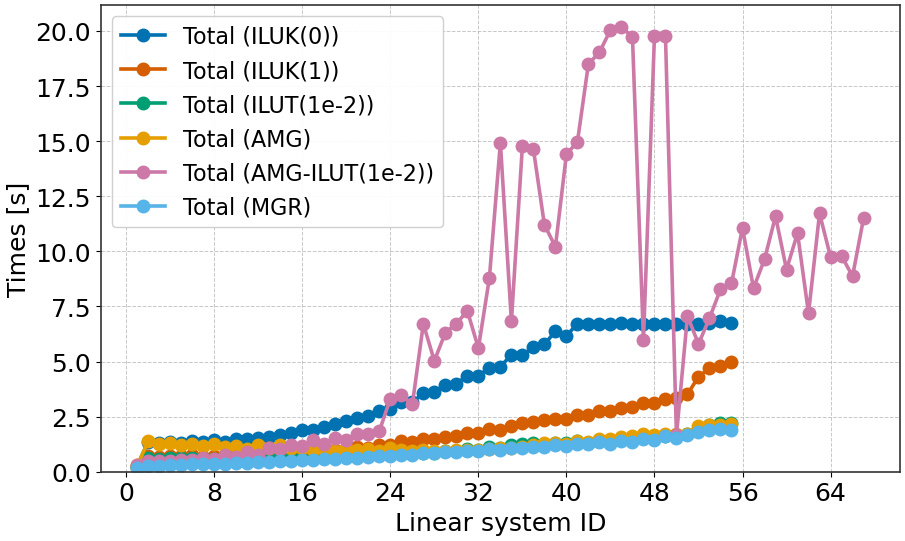
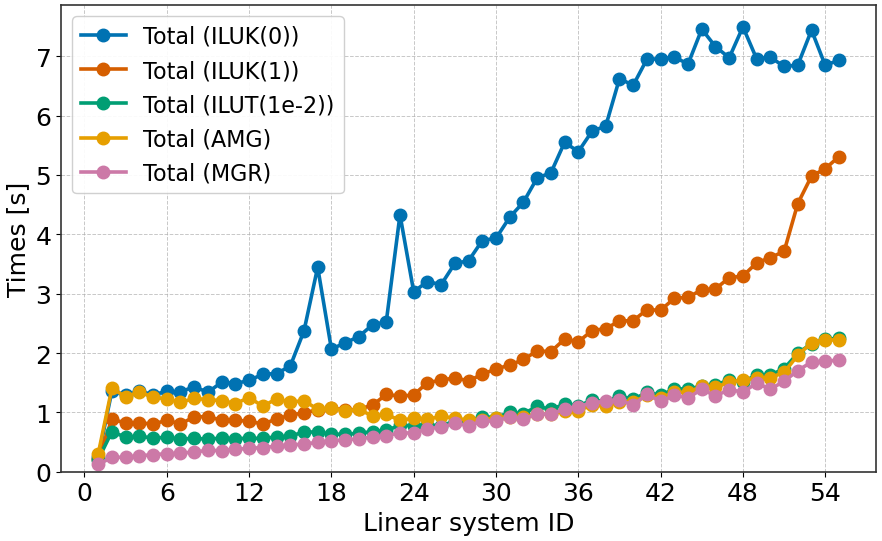
Regression fixes

diff --git a/src/internal/precon.c b/src/internal/precon.c
@@ -312,7 +312,10 @@ hypredrv_PreconCreate(precon_t precon_method, precon_args *args, IntArray *dofma
    precon->main     = NULL;
    precon->method   = precon_method;
    precon->is_setup = 0;
-   precon->stats    = NULL;
+   /* Methods that need no operator inputs are always ready for setup; AMS/ADS
+    * are only ready when every required operator was supplied (checked below). */
+   precon->operators_ok = hypredrv_PreconOperatorsComplete(precon_method, ops);
+   precon->stats        = NULL;
 
    switch (precon_method)
    {
@@ -373,6 +376,83 @@ hypredrv_PreconCreate(precon_t precon_method, precon_args *args, IntArray *dofma
 }
 
 /*-----------------------------------------------------------------------------
+ * hypredrv_PreconMethodRequiresOperators
+ *-----------------------------------------------------------------------------*/
+
+int
+hypredrv_PreconMethodRequiresOperators(precon_t precon_method)
+{
+   return (precon_method == PRECON_AMS || precon_method == PRECON_ADS);
+}
+
+/*-----------------------------------------------------------------------------
+ * hypredrv_PreconOperatorsComplete
+ *
+ * AMS needs a discrete gradient and the three coordinate vectors; ADS needs all
+ * of that plus a discrete curl. These mirror the inputs hypredrv_AMSSetOperators
+ * / hypredrv_ADSSetOperators forward to HYPRE_*SetDiscreteGradient /
+ * HYPRE_*SetDiscreteCurl / HYPRE_*SetCoordinateVectors; if any is missing the
+ * hypre setup routine dereferences NULL.
+ *-----------------------------------------------------------------------------*/
+
+int
+hypredrv_PreconOperatorsComplete(precon_t precon_method, const PreconOperators *ops)
+{
+   if (!hypredrv_PreconMethodRequiresOperators(precon_method))
+   {
+      return 1;
+   }
+
+   if (!ops)
+   {
+      return 0;
+   }
+
+   int have_coords = (ops->coord[0] && ops->coord[1] && ops->coord[2]);
+
+   if (precon_method == PRECON_AMS)
+   {
+      return (ops->G && have_coords) ? 1 : 0;
+   }
+
+   /* PRECON_ADS */
+   return (ops->G && ops->C && have_coords) ? 1 : 0;
+}
+
+/*-----------------------------------------------------------------------------
+ * hypredrv_PreconSetupOperatorGuard
+ *-----------------------------------------------------------------------------*/
+
+int
+hypredrv_PreconSetupOperatorGuard(HYPRE_Precon precon)
+{
+   if (!precon || precon->operators_ok)
+   {
+      return 0;
+   }
+
+   if (!hypredrv_PreconMethodRequiresOperators(precon->method))
+   {
+      return 0;
+   }
+
+   hypredrv_ErrorCodeSet(ERROR_MISSING_PRECON);
+   if (precon->method == PRECON_AMS)
+   {
+      hypredrv_ErrorMsgAdd("AMS setup requires a discrete gradient matrix and "
+                           "coordinate vectors, but they were not provided");
+   }
+   else
+   {
+      hypredrv_ErrorMsgAdd("ADS setup requires a discrete gradient matrix, a discrete "
+                           "curl matrix, and coordinate vectors, but they were not "
+                           "provided");
+   }
+
+   return 1;
+}
+
+/*-----------------------------------------------------------------------------
  * hypredrv_PreconSetup
  *-----------------------------------------------------------------------------*/
 
@@ -399,6 +479,13 @@ hypredrv_PreconSetup(precon_t precon_method, HYPRE_Precon precon, HYPRE_IJMatrix
    {
       hypredrv_ErrorCodeSet(ERROR_INVALID_VAL);
       hypredrv_ErrorMsgAdd("Preconditioner setup requested with null matrix");
+      return;
+   }
+
+   /* Abort cleanly (instead of letting hypre dereference NULL) when an AMS/ADS
+    * preconditioner is set up without its required operator inputs. */
+   if (hypredrv_PreconSetupOperatorGuard(precon))
+   {
       return;
    }
 

diff --git a/include/internal/precon.h b/include/internal/precon.h
@@ -86,6 +86,11 @@ typedef struct hypre_Precon_struct
    HYPRE_Solver         main;
    precon_t             method;
    HYPRE_Int            is_setup;
+   /* For AMS/ADS: 1 when every operator input the method requires (discrete
+    * gradient / discrete curl / coordinate vectors) was supplied at create
+    * time. Always 1 for methods that need no operator inputs. Setup must abort
+    * with a clean error when this is 0, otherwise hypre dereferences NULL. */
+   HYPRE_Int            operators_ok;
    struct Stats_struct *stats;
 } hypre_Precon;
 
@@ -106,6 +111,21 @@ void           hypredrv_PreconSetArgsFromYAML(precon_args *,
                                               YAMLnode *); /* TODO: change to PreconSetArgs */
 void           hypredrv_PreconCreate(precon_t, precon_args *, IntArray *, HYPRE_IJVector,
                                      HYPRE_Precon *, const Stats *, int, const PreconOperators *);
+/* Returns 1 if the method needs externally supplied operator inputs
+ * (AMS: discrete gradient + coordinates; ADS: + discrete curl), else 0. */
+int            hypredrv_PreconMethodRequiresOperators(precon_t);
+
+/* Returns 1 if every operator input required by the method is present in ops
+ * (ops may be NULL, which counts as "all missing" for AMS/ADS). Methods that
+ * need no operators always return 1. */
+int            hypredrv_PreconOperatorsComplete(precon_t, const PreconOperators *);
+
+/* Setup-time guard shared by the standalone and Krylov-embedded setup paths.
+ * Returns nonzero (after raising an ERROR_MISSING_PRECON HYPREDRV error) when
+ * the preconditioner must not be set up because its required operators are
+ * missing; returns 0 when setup may proceed. */
+int            hypredrv_PreconSetupOperatorGuard(HYPRE_Precon);
+
 void           hypredrv_PreconSetup(precon_t, HYPRE_Precon, HYPRE_IJMatrix);
 void hypredrv_PreconApply(precon_t, HYPRE_Precon, HYPRE_IJMatrix, HYPRE_IJVector,
                           HYPRE_IJVector);

diff --git a/scripts/analyze_statistics.py b/scripts/analyze_statistics.py
@@ -542,7 +542,7 @@ def plot_times(df, cumulative, xtype, xlabel, time_unit, use_title=False, savefi
         prefix = 'Cumulative ' if cumulative else ''
         plt.title(f'{prefix}Linear solver times vs {xlabel}', fontsize=tfs, fontweight='bold')
     ax = plt.gca()
-    _setup_axes(ax, xlabel, f'Times {time_unit}', log_x=log_x, log_y=log_y, set_integer_x=True, set_y_bottom=0.0, safe_integer_locator=False)
+    _setup_axes(ax, xlabel, f'Time {time_unit}', log_x=log_x, log_y=log_y, set_integer_x=True, set_y_bottom=0.0, safe_integer_locator=False)
     plt.grid(True)
     plt.tight_layout()
     save_and_show_plot(f"times_{agg_str}{savefig}")
@@ -584,7 +584,7 @@ def plot_time_metric(df, cumulative, xtype, xlabel, time_unit, metric, use_title
         prefix = 'Cumulative ' if cumulative else ''
         plt.title(f"{prefix}{metric.capitalize()} time vs {xlabel}", fontsize=tfs, fontweight='bold')
     ax = plt.gca()
-    _setup_axes(ax, xlabel, f'Times {time_unit}', log_x=log_x, log_y=log_y, set_integer_x=True, set_y_bottom=0.0, safe_integer_locator=False)
+    _setup_axes(ax, xlabel, f'Time {time_unit}', log_x=log_x, log_y=log_y, set_integer_x=True, set_y_bottom=0.0, safe_integer_locator=False)
     plt.grid(True)
     plt.tight_layout()
     save_and_show_plot(f"{metric}_{agg_str}{savefig}")
@@ -612,7 +612,7 @@ def _plot_iters_with_time_metric(df, cumulative, xtype, xlabel, time_unit, time_
 
     # Time axis (left): setup/solve/total.
     ax1.set_xlabel(xlabel, fontsize=alfs)
-    ax1.set_ylabel(f'Times {time_unit}', fontsize=alfs)
+    ax1.set_ylabel(f'Time {time_unit}', fontsize=alfs)
     if log_x:
         ax1.set_xscale('log')
     if log_y:
@@ -828,7 +828,7 @@ def plot_bar_time_metric(df, metric, time_unit, labels, use_title=False, savefig
     if metric == 'iters':
         plt.ylabel("Iterations", fontsize=alfs)
     else:
-        plt.ylabel(f"Times {time_unit}", fontsize=alfs)
+        plt.ylabel(f"Time {time_unit}", fontsize=alfs)
     plt.xlabel(xlabel if xlabel else "Solver", fontsize=alfs)
 
     if title:

diff --git a/src/internal/solver.c b/src/internal/solver.c
@@ -175,6 +175,14 @@ PreconSetupDispatch(HYPRE_Solver solver, HYPRE_ParCSRMatrix A, HYPRE_ParVector b
       return 0;
    }
 
+   /* Abort cleanly (instead of letting hypre dereference NULL) when an AMS/ADS
+    * preconditioner is set up without its required operator inputs. This is the
+    * Krylov-embedded counterpart of the guard in hypredrv_PreconSetup. */
+   if (hypredrv_PreconSetupOperatorGuard(precon))
+   {
+      return 1;
+   }
+
    if (precon->stats)
    {
       hypredrv_StatsAnnotate(precon->stats, HYPREDRV_ANNOTATE_BEGIN, "prec");

diff --git a/examples/src/C_elasticity/postprocess.py b/examples/src/C_elasticity/postprocess.py
@@ -116,10 +116,14 @@ def render(args: argparse.Namespace) -> None:
     try:
         pl.enable_anti_aliasing("ssaa")
     except Exception:
+        # Anti-aliasing is a purely cosmetic enhancement; some VTK/OpenGL backends
+        # (notably headless/off-screen) do not support it, so just render without it.
         pass
     try:
         pl.enable_depth_peeling(10, 0.0)  # correct ordering for translucent surfaces
     except Exception:
+        # Depth peeling only improves translucent-surface ordering and may be
+        # unavailable on some backends; carry on with default rendering if so.
         pass
 
     # Original (undeformed) configuration as a light box outline for reference.

diff --git a/examples/src/C_graddiv/postprocess.py b/examples/src/C_graddiv/postprocess.py
@@ -91,10 +91,14 @@ def render(args: argparse.Namespace) -> None:
     try:
         pl.enable_anti_aliasing("ssaa")
     except Exception:
+        # Optional rendering enhancement: anti-aliasing can fail on certain
+        # VTK/OpenGL or off-screen backends, so we let rendering continue without it.
         pass
     try:
         pl.enable_depth_peeling(10, 0.0)  # correct ordering for translucent surfaces
     except Exception:
+        # Optional rendering enhancement: depth peeling may be unsupported on some
+        # backends; the plot is still produced (just without ordered transparency).
         pass
 
     # Scalar bar parked in the right margin (the camera zoom keeps the object clear of it).

diff --git a/examples/src/C_heatflow/postprocess.py b/examples/src/C_heatflow/postprocess.py
@@ -159,10 +159,14 @@ def render(args: argparse.Namespace) -> None:
     try:
         pl.enable_anti_aliasing("ssaa")
     except Exception:
+        # SSAA is an optional rendering enhancement; depending on the VTK/OpenGL
+        # backend (e.g. headless) it may be unavailable, so render without it.
         pass
     try:
         pl.enable_depth_peeling(10, 0.0)  # correct ordering for translucent surfaces
     except Exception:
+        # Ordered transparency via depth peeling is optional and not supported on
+        # every backend; proceed with the default compositing if it is unavailable.
         pass
 
     # Scalar bar parked in the right margin (the camera zoom keeps the object clear of it).

diff --git a/examples/src/C_laplacian/postprocess.py b/examples/src/C_laplacian/postprocess.py
@@ -112,10 +112,14 @@ def render(args: argparse.Namespace) -> None:
     try:
         pl.enable_anti_aliasing("ssaa")
     except Exception:
+        # SSAA anti-aliasing is an optional visual nicety that some VTK/OpenGL
+        # backends (especially headless ones) reject; proceed without it.
         pass
     try:
         pl.enable_depth_peeling(10, 0.0)  # correct ordering for translucent surfaces
     except Exception:
+        # Depth peeling is an optional rendering enhancement for translucency and is
+        # not supported on every backend; continue rendering without it.
         pass
 
     # Scalar bar parked in the right margin (the camera zoom keeps the object clear of it).

diff --git a/examples/src/C_maxwell/postprocess.py b/examples/src/C_maxwell/postprocess.py
@@ -91,10 +91,14 @@ def render(args: argparse.Namespace) -> None:
     try:
         pl.enable_anti_aliasing("ssaa")
     except Exception:
+        # Anti-aliasing is an optional quality boost that not all VTK/OpenGL
+        # backends honor (headless setups in particular); skip it and keep going.
         pass
     try:
         pl.enable_depth_peeling(10, 0.0)  # correct ordering for translucent surfaces
     except Exception:
+        # Depth peeling is an optional enhancement for translucent surfaces and may
+        # be unsupported depending on the backend; render without it if so.
         pass
 
     # Scalar bar parked in the right margin (the camera zoom keeps the object clear of it).

diff --git a/examples/src/C_lidcavity/postprocess.py b/examples/src/C_lidcavity/postprocess.py
@@ -821,6 +821,8 @@ def streamlines_pyvista(pvd_path, out_path, Re, animate=False, fps=8, sep=2.0,
     try:
         pl.enable_anti_aliasing("ssaa")
     except Exception:
+        # Anti-aliasing is an optional rendering enhancement that may be unsupported
+        # on some VTK/OpenGL or off-screen backends; let rendering continue without it.
         pass
 
     def draw(mesh, t=None):

diff --git a/scripts/analyze_caliper.py b/scripts/analyze_caliper.py
@@ -1,4 +1,4 @@
-#!/usr/bin/python
+#!/usr/bin/env python3
 
 import argparse
 import re

diff --git a/docs/usrman-src/library_examples.rst b/docs/usrman-src/library_examples.rst
@@ -1887,7 +1887,7 @@ linear systems. In this example, we provide a comparison script to evaluate diff
 
    ./reproduce.sh --solvers
 
-This script runs the simulation with six different solver configurations and
+This script runs the simulation with five different solver configurations and
 generates performance comparison plots. The tested configurations are stored in
 the ``examples/src/C_lidcavity/`` directory and are listed below:
 
@@ -1895,11 +1895,10 @@ the ``examples/src/C_lidcavity/`` directory and are listed below:
 - **ILUK(1)**: Block Jacobi ILU with fill level 1 (``fgmres-ilu1.yml``)
 - **ILUT(1e-2)**: Block Jacobi ILUT with drop tolerance 1.0e-2 (``fgmres-ilut_1e-2.yml``)
 - **AMG**: Algebraic multigrid preconditioner (``fgmres-amg.yml``)
-- **AMG+ILUT(1e-2)**: AMG with block Jacobi ILUT smoothing (``fgmres-amg-ilut.yml``)
 - **MGR**: MGR with absolute block rowsum prolongation (``fgmres-mgr.yml``)
 
 All configurations use flexible GMRES (FGMRES) with a relative tolerance of
-1.0e-6. The comparison uses a 256×256 grid with 64 MPI ranks, running from
+1.0e-6. The comparison uses a 256×256 grid with 16 MPI ranks, running from
 t=0 to t=50 with adaptive time stepping.
 
 .. figure:: figures/lidcavity_256x256_Re0100_iters.png